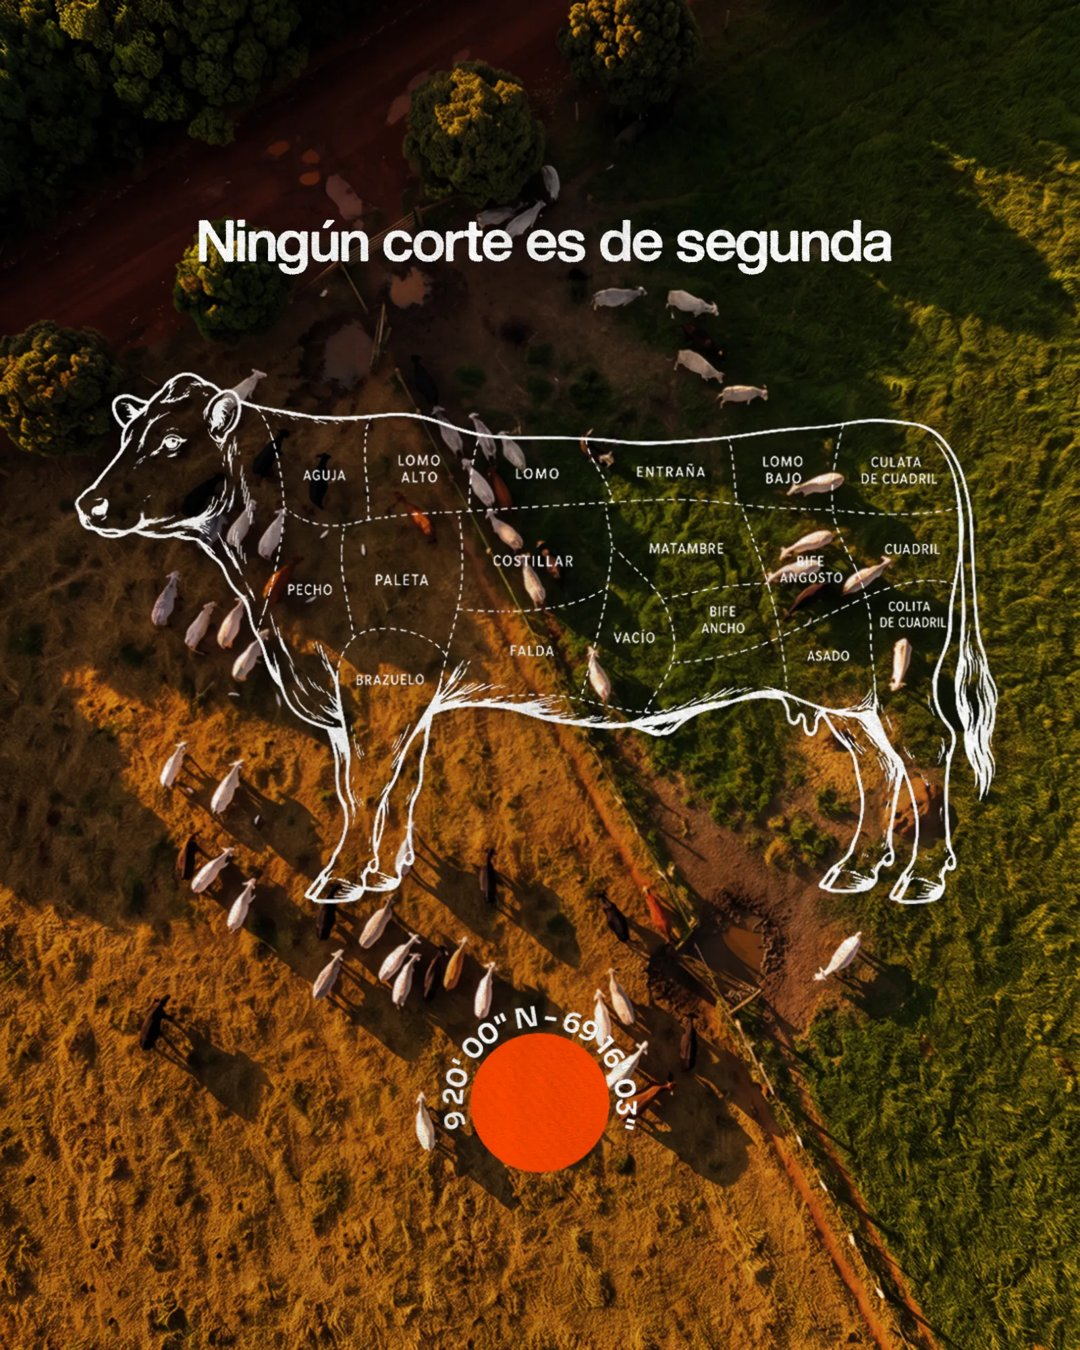
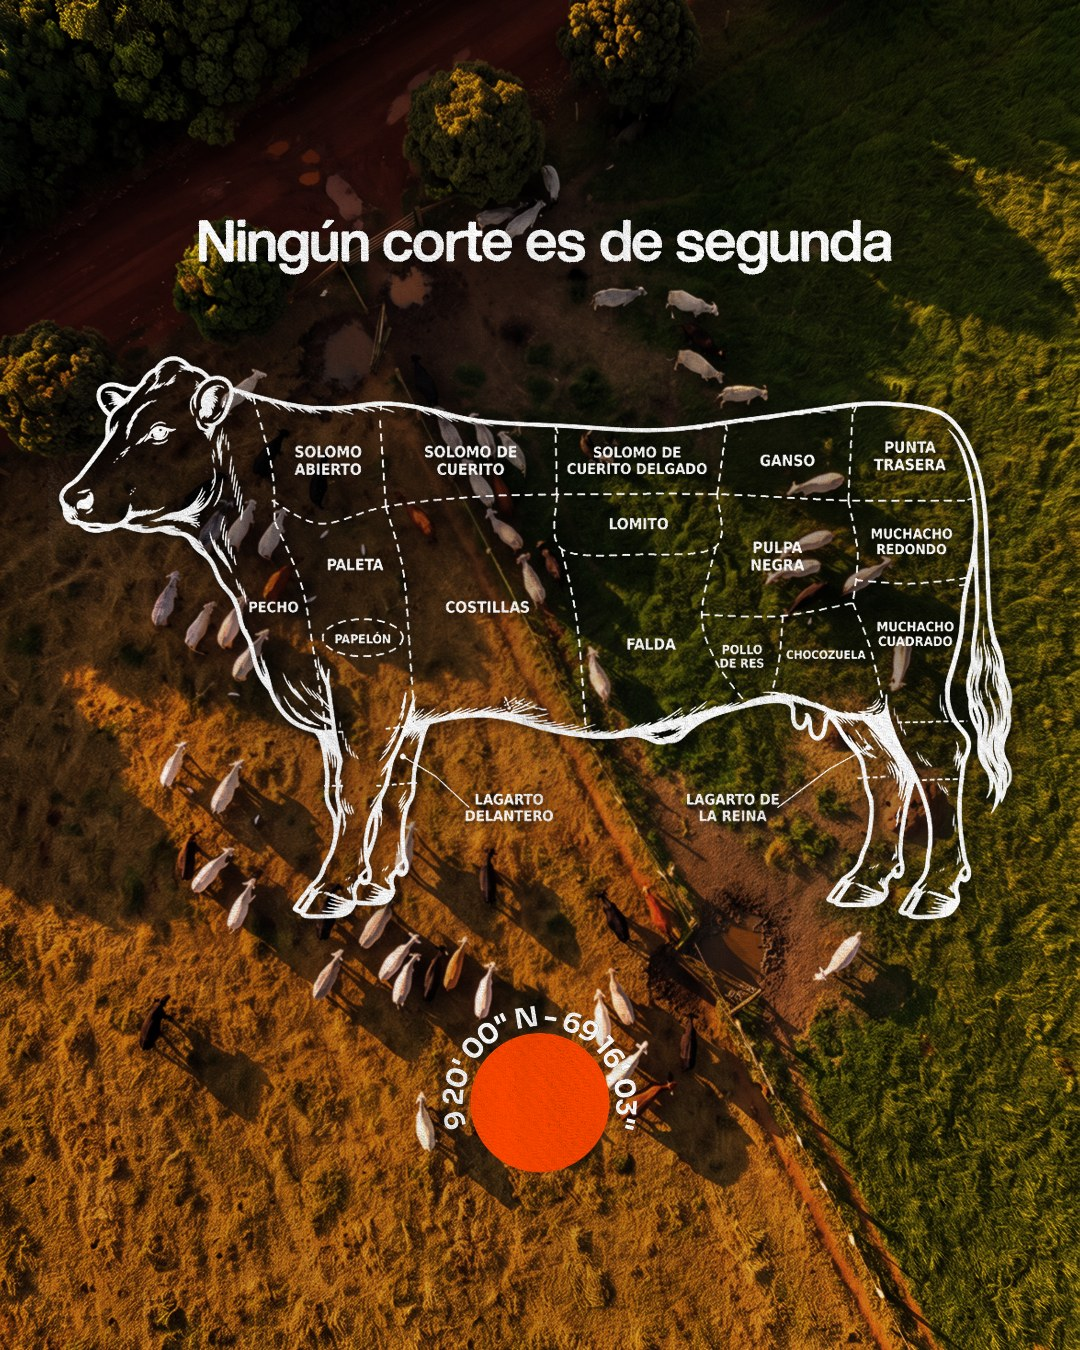
Grilla Acaure octubre: nuevo post 1, post 6 (empaques) y carrusel post 7 (corte y empaque)

diff --git a/public/acaure-octubre/index.html b/public/acaure-octubre/index.html
@@ -512,6 +512,38 @@ const posts = [
   "num": 5,
   "story": false,
   "caption": "Dos años de pasto, sol y paciencia. Y un equipo que no se pierde un solo día.\n\nAsí se cría la carne que llega a tu casa.\n\nCarnes, Llano y Familia.\n🌐 www.acaure.com"
+ },
+ {
+  "type": "image",
+  "label": "Imagen",
+  "thumb": "assets/post6_1.jpg",
+  "slides": [
+   {
+    "type": "image",
+    "src": "assets/post6_1.jpg"
+   }
+  ],
+  "num": 6,
+  "story": false,
+  "caption": "Medallón de lomito, milanesa de chocozuela, carne molida especial. Cada corte va empacado al vacío y con su nombre en la etiqueta.\n\nAsí abres el congelador y sabes qué hay sin tener que adivinar. Sacas los medallones para el fin de semana, la molida para el pasticho del domingo, la milanesa para un almuerzo rápido entre semana.\n\nEl vacío le quita el aire al empaque. La carne se conserva mejor en el congelador y, cuando la descongelas, mantiene su color y su jugo.\n\n¿Cuál de estos tres no puede faltar en tu casa?\n\nCarnes, Llano y Familia.\n🌐 www.acaure.com"
+ },
+ {
+  "type": "carousel",
+  "label": "Carrusel · 2",
+  "thumb": "assets/post7_1.jpg",
+  "slides": [
+   {
+    "type": "image",
+    "src": "assets/post7_1.jpg"
+   },
+   {
+    "type": "image",
+    "src": "assets/post7_2.jpg"
+   }
+  ],
+  "num": 7,
+  "story": false,
+  "caption": "De la mesa de corte a tu congelador.\n\nCada pieza se corta a mano y al grosor que pide el plato. La milanesa sale finita para que se cocine pareja. La pechuga se abre en filetes para que no quede cruda por dentro ni seca por fuera.\n\nDespués va al vacío, con el nombre del corte en la etiqueta. Así llega a tu casa listo para guardar.\n\n¿Milanesa empanizada o a la plancha? Cuéntanos cómo la preparan en tu casa.\n\nCarnes, Llano y Familia.\n🌐 www.acaure.com"
  }
 ];
 const stories = [
